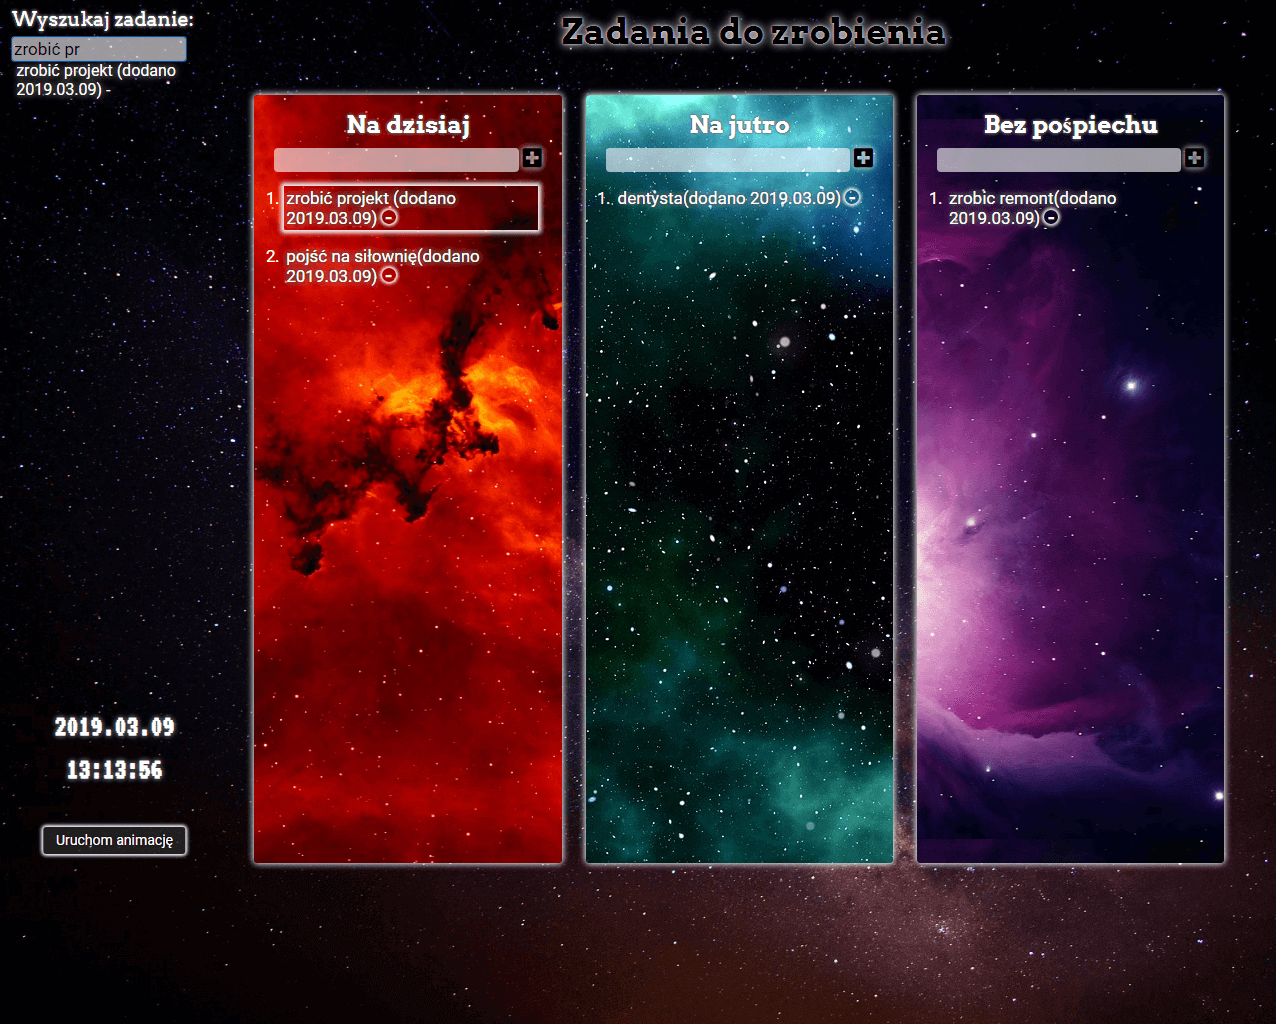
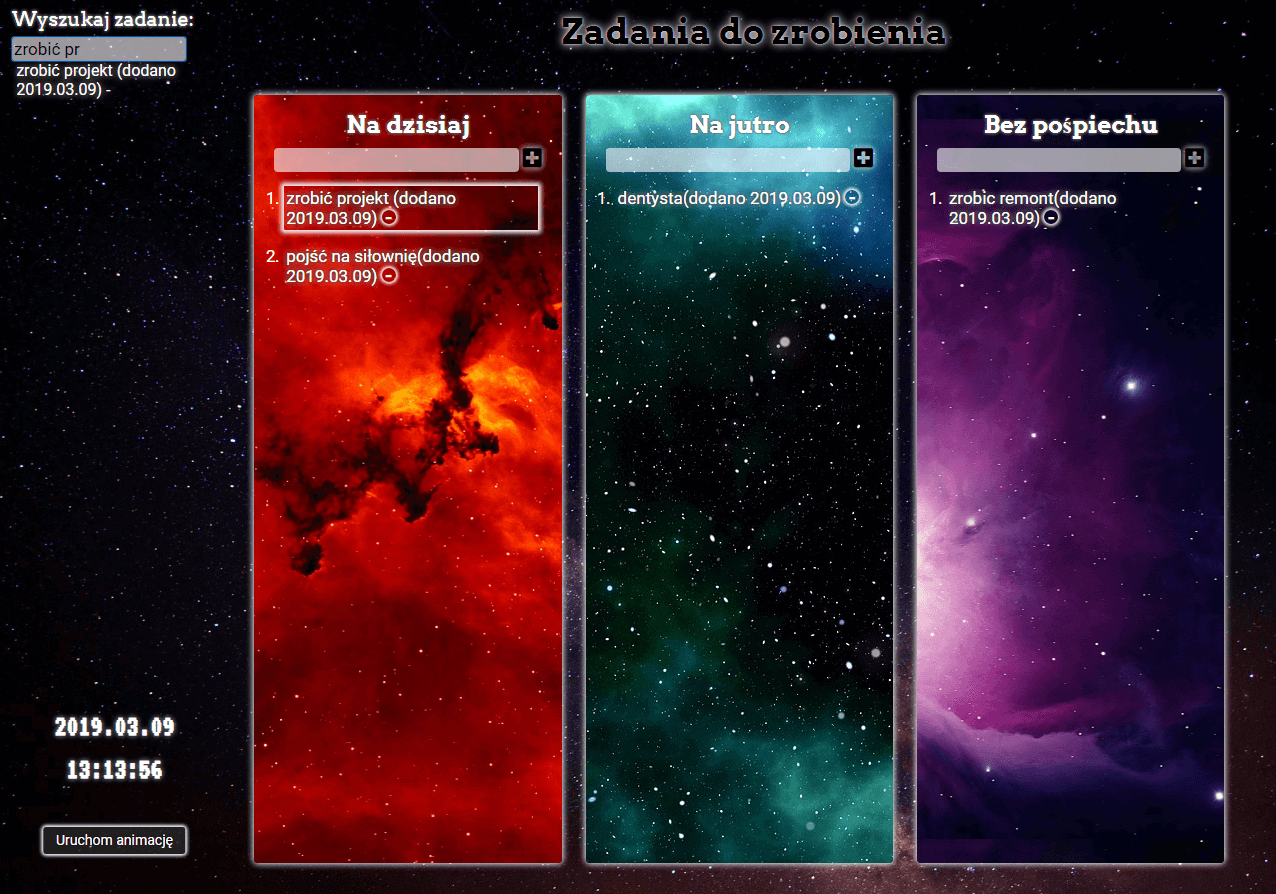
change sreenshot.png

diff --git a/toDoList.css b/toDoList.css
@@ -6,7 +6,7 @@ font-family: 'Arvo', serif;
   margin: 0;
   padding: 0;
   box-sizing: border-box;
-  font-family: 'Roboto', sans-serif;
+  font-family: "Roboto", sans-serif;
 }
 
 body {
@@ -198,7 +198,7 @@ body {
   justify-content: space-around;
 }
 
-.wrap-search {
+div.wrap-search {
   position: relative;
   width: 17%;
   min-height: 80vh;
@@ -206,7 +206,7 @@ body {
 
 label {
   display: inline-block;
-  font-family: 'Arvo', serif;
+  font-family: "Arvo", serif;
   color: white;
   text-shadow: 0 0 5px white;
   font-size: 20px;
@@ -237,7 +237,7 @@ input {
   text-align: center;
   border-radius: 3px;
   cursor: pointer;
-  transition: .3s;
+  transition: 0.3s;
 }
 
 .stop:hover {
@@ -254,7 +254,7 @@ input {
 h3.date,
 h3.time span {
   text-align: center;
-  font-family: 'VT323', monospace;
+  font-family: "VT323", monospace;
   font-size: 30px;
   color: white;
   text-shadow: 0 0 6px black, 0 0 8px white;
@@ -267,7 +267,7 @@ h3.time span {
 }
 
 h3.time span {
-  animation: spangrow 1s .3s linear;
+  animation: spangrow 1s 0.3s linear;
 }
 
 h3.time,
@@ -318,7 +318,7 @@ h3.date {
 
 h3.date {
   bottom: 13%;
-  animation: movedate .8s .4s linear;
+  animation: movedate 0.8s 0.4s linear;
 }
 
 h3.time {
@@ -327,7 +327,7 @@ h3.time {
 
 .wrap-all-to-do h1,
 .wrap-all-to-do h2 {
-  font-family: 'Arvo', serif;
+  font-family: "Arvo", serif;
 }
 
 .wrap-all-to-do h1 {
@@ -337,7 +337,7 @@ h3.time {
   text-align: center;
   cursor: pointer;
   text-shadow: 0 0 2px white, 0 0 15px white;
-  transition: .3s;
+  transition: 0.3s;
 }
 
 .wrap-all-to-do h1:hover {
@@ -388,7 +388,7 @@ li button {
   box-shadow: 0 0 4px 2px white;
   border-radius: 50%;
   text-shadow: none;
-  transition: .2s;
+  transition: 0.2s;
 }
 
 li button:hover {
@@ -397,7 +397,7 @@ li button:hover {
 }
 
 i.fa-plus-square {
-  transition: .2s;
+  transition: 0.2s;
 }
 
 i.fa-plus-square:hover {
@@ -420,7 +420,6 @@ i.fa-plus-square:hover {
   min-height: 75vh;
   width: 100%;
   justify-content: space-around;
-
 }
 
 .to-do {
@@ -428,7 +427,7 @@ i.fa-plus-square:hover {
   text-align: center;
   width: 30%;
   padding: 10px;
-  transition: .3s cubic-bezier(0.18, 0.69, 0.52, 1.28);
+  transition: 0.3s cubic-bezier(0.18, 0.69, 0.52, 1.28);
   border-radius: 4px;
   box-shadow: 0 0 10px 1px white;
 }
@@ -440,11 +439,9 @@ i.fa-plus-square:hover {
   background-repeat: no-repeat;
 }
 
-
 .to-do.one {
   background-image: url(to-do-one.jpg);
   background-position: center;
-
 }
 
 .to-do.two {
